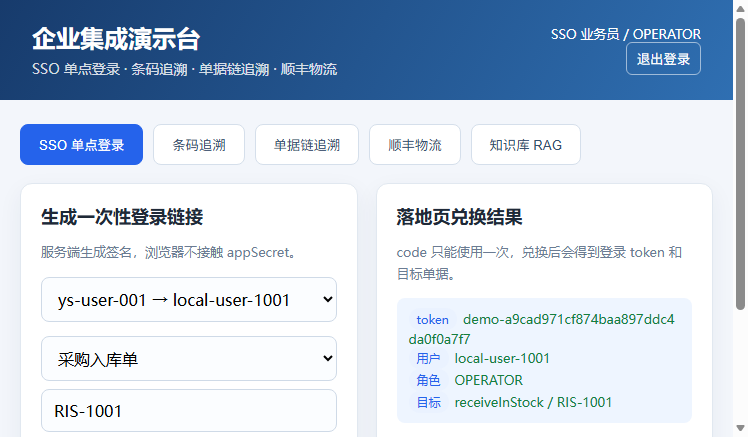
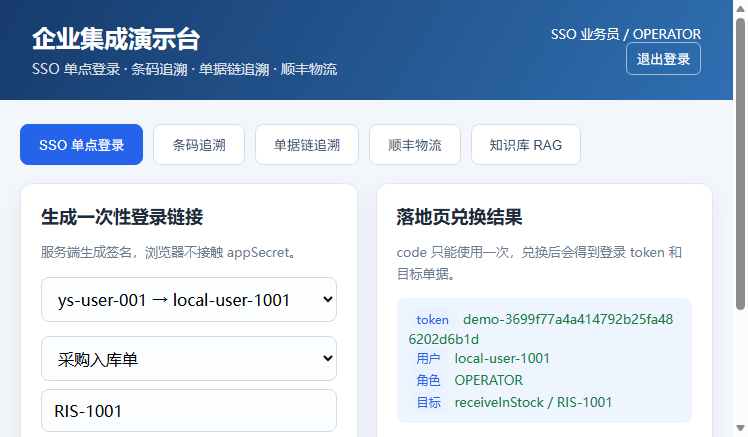
文档：补充 PDF 解析和 LLM 降级验证

Changed region(s): [[0.6765, 0.714, 0.9225, 0.7437], [0.5535, 0.7437, 0.6457, 0.8032]]

diff --git a/README.md b/README.md
@@ -87,11 +87,24 @@ validate
 
 - 文档按固定窗口切分，带重叠
 - 关键词、中文双字 n-gram 和哈希 embedding 混合检索
-- 支持 txt / md / docx 文档
+- 支持 txt / md / docx / pdf 文档
 - 可见范围：PUBLIC / OPERATOR / ADMIN
 - 返回引用片段和分数
 - 内置 5 条评测问题
 - 当前答案由可解释模板生成，可替换为 Dify 或任意 LLM
+
+可选 OpenAI-Compatible LLM：
+
+```yaml
+rag:
+  llm:
+    enabled: true
+    base-url: https://api.openai.com/v1
+    api-key: ${RAG_LLM_API_KEY}
+    model: gpt-4o-mini
+```
+
+未配置 Key 或 LLM 调用失败时自动降级到模板回答。
 
 ## 演示登录
 

diff --git a/docs/verification.md b/docs/verification.md
@@ -38,6 +38,10 @@ API 验证：
 - RAG 管理员文档管理
 - RAG 权限过滤（查看者看不到 OPERATOR/ADMIN 文档）
 - RAG 评测 1.0 命中率
+- PDF 上传并提取 1202 字符后删除
+- `/api/rag/info` 返回混合检索和 template 模式
 - 20/20 断言通过
+
+> LLM 模式尚未接入真实 Key；已验证未配置 Key 时会降级到模板回答。
 
 > MySQL/Redis 模式已提供 Docker Compose 和 SQL 初始化脚本；当前验证环境 Docker daemon 未启动，因此该模式只完成编译和配置校验。

diff --git a/docs/architecture.md b/docs/architecture.md
@@ -87,3 +87,8 @@ Web / Agent UI
 
 当前不依赖外部向量库；生产环境可以把本地检索替换为
 Embedding + 向量数据库 + Rerank，并保留相同的权限过滤和引用协议。
+
+回答生成支持两种模式：
+
+- 默认模板模式：无外部 Key，可解释
+- LLM 模式：配置 OpenAI-Compatible `/chat/completions` 后启用；失败时回退模板
